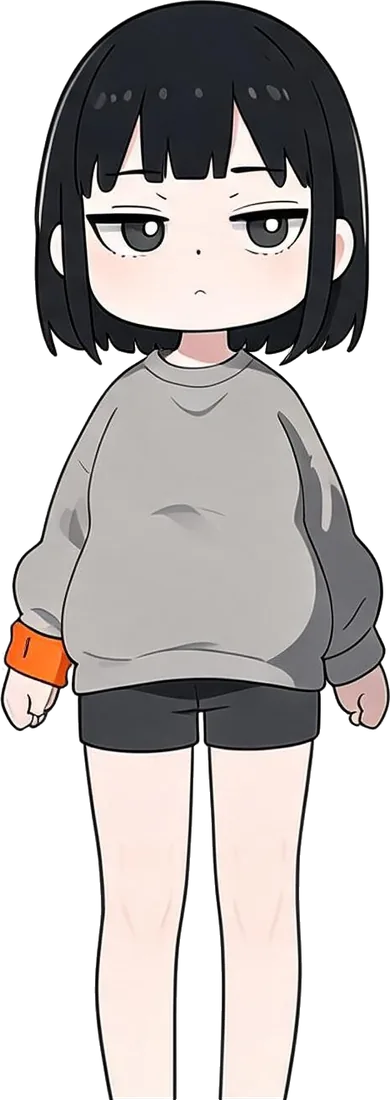
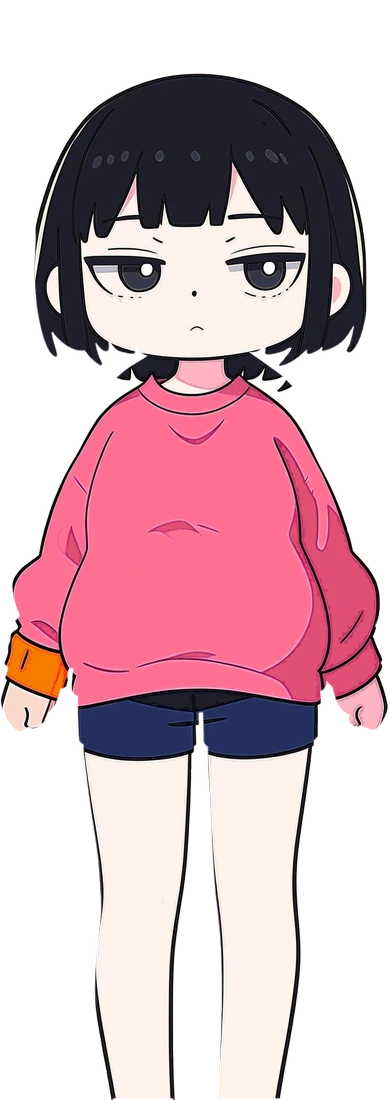
누나 정면·옆 그림(sister-front, sister-side)을 아동 컬러판(핑크 맨투맨·남색 반바지)으로 다시 칠함

diff --git a/_tests/test_recolor_sister.py b/_tests/test_recolor_sister.py
@@ -1,0 +1,140 @@
+"""Item: recolour sister-front / sister-side to the kids colour palette.
+
+Done when
+- both images keep the size and mode of the bb74c20 original,
+- they are more colourful than the original and at least 8% colourful
+  (pink sweatshirt #FF6F91, navy shorts #34407A per PALETTE.md),
+- work PNGs / candidates live only outside the repo (TEMP), never in it.
+Run: python _tests/test_recolor_sister.py
+"""
+import colorsys
+import os
+import subprocess
+import sys
+import unittest
+
+sys.dont_write_bytecode = True
+sys.path.insert(0, os.path.dirname(os.path.abspath(__file__)))
+import imgcheck  # noqa: E402
+
+NAMES = ["sister-front", "sister-side"]
+DEST = "assets/images/twins"
+MIN_COLOUR = 0.08
+MIN_GAIN = 0.03
+MIN_SHARE = 0.01  # each garment colour must cover >= 1% of opaque pixels
+
+
+def rel(n):
+    return f"{DEST}/{n}.webp"
+
+
+def hue_share(img, lo, hi, sat_min=0.35, val_max=1.0, max_side=256):
+    """Share of opaque pixels whose hue is in [lo, hi] (wraps if lo > hi)."""
+    img = img.convert("RGBA")
+    if max(img.size) > max_side:
+        img = img.copy()
+        img.thumbnail((max_side, max_side), imgcheck.Image.NEAREST)
+    total = hits = 0
+    for r, g, b, a in img.getdata():
+        if a < 128:
+            continue
+        total += 1
+        h, s, v = colorsys.rgb_to_hsv(r / 255, g / 255, b / 255)
+        h *= 360
+        inside = (lo <= h <= hi) if lo <= hi else (h >= lo or h <= hi)
+        if inside and s >= sat_min and v <= val_max:
+            hits += 1
+    return hits / total if total else 0.0
+
+
+def pink_share(img):
+    return hue_share(img, 325, 10, sat_min=0.30)
+
+
+def navy_share(img):
+    return hue_share(img, 215, 250, sat_min=0.30, val_max=0.65)
+
+
+class TestRecolorSister(unittest.TestCase):
+    def test_files_exist(self):
+        missing = [n for n in NAMES if not os.path.isfile(imgcheck.repo_path(rel(n)))]
+        self.assertEqual(missing, [])
+
+    def test_changed_from_base(self):
+        same = [n for n in NAMES
+                if imgcheck.original_bytes(rel(n))
+                == open(imgcheck.repo_path(rel(n)), "rb").read()]
+        self.assertEqual(same, [], "still the bb74c20 (mono) file")
+
+    def test_size_and_mode_match_base(self):
+        bad = []
+        for n in NAMES:
+            ok, msg = imgcheck.same_size_mode(rel(n))
+            if not ok:
+                bad.append(msg)
+        self.assertEqual(bad, [])
+
+    def test_more_colourful_than_base_and_at_least_8pct(self):
+        bad = []
+        for n in NAMES:
+            old = imgcheck.colourfulness(imgcheck.original(rel(n)))
+            new = imgcheck.colourfulness(imgcheck.current(rel(n)))
+            if new < MIN_COLOUR or new < old + MIN_GAIN:
+                bad.append(f"{n}: {old:.3f} -> {new:.3f}")
+        self.assertEqual(bad, [], f"need >= {MIN_COLOUR} and > base + {MIN_GAIN}")
+
+    def test_pink_sweatshirt_present(self):
+        low = [f"{n}: {pink_share(imgcheck.current(rel(n))):.3f}" for n in NAMES
+               if pink_share(imgcheck.current(rel(n))) < MIN_SHARE]
+        self.assertEqual(low, [], "pink sweatshirt colour missing")
+
+    def test_navy_shorts_present(self):
+        low = [f"{n}: {navy_share(imgcheck.current(rel(n))):.3f}" for n in NAMES
+               if navy_share(imgcheck.current(rel(n))) < MIN_SHARE]
+        self.assertEqual(low, [], "navy shorts colour missing")
+
+    def test_transparent_background_kept(self):
+        # Cutouts: corners must stay transparent (no cream box left by recolour).
+        bad = []
+        for n in NAMES:
+            img = imgcheck.current(rel(n)).convert("RGBA")
+            w, h = img.size
+            for xy in [(0, 0), (w - 1, 0)]:
+                if img.getpixel(xy)[3] > 16:
+                    bad.append(f"{n} {xy}")
+        self.assertEqual(bad, [], "background not transparent at top corners")
+
+    def test_no_work_files_in_repo(self):
+        out = subprocess.run(
+            ["git", "status", "--porcelain", "--untracked-files=all", "--ignored"],
+            cwd=imgcheck.REPO, capture_output=True, text=True, check=True).stdout
+        stray = [line for line in out.splitlines()
+                 if "sister" in line.lower()
+                 and line.lower().rstrip('"').endswith((".png", ".webp", ".jpg", ".jpeg"))
+                 and not line[3:].strip().strip('"') in [rel(n) for n in NAMES]]
+        self.assertEqual(stray, [], "work PNG / candidate left inside the repo")
+
+
+class TestHelpers(unittest.TestCase):
+    def test_hue_share_bounds(self):
+        Image = imgcheck.Image
+        pink = Image.new("RGBA", (4, 4), (0xFF, 0x6F, 0x91, 255))
+        navy = Image.new("RGBA", (4, 4), (0x34, 0x40, 0x7A, 255))
+        sky = Image.new("RGBA", (4, 4), (0x3F, 0xA9, 0xF5, 255))
+        grey = Image.new("RGBA", (4, 4), (90, 90, 90, 255))
+        self.assertEqual(pink_share(pink), 1.0)
+        self.assertEqual(pink_share(navy), 0.0)
+        self.assertEqual(navy_share(navy), 1.0)
+        self.assertEqual(navy_share(sky), 0.0)  # too bright for navy
+        self.assertEqual(navy_share(grey), 0.0)
+        self.assertEqual(pink_share(Image.new("RGBA", (4, 4), (255, 111, 145, 0))), 0.0)
+
+    def test_base_is_not_pink_navy(self):
+        # The mono originals must fail the garment checks, else they prove nothing.
+        for n in NAMES:
+            old = imgcheck.original(rel(n))
+            self.assertLess(min(pink_share(old), navy_share(old)), MIN_SHARE, n)
+
+
+if __name__ == "__main__":
+    unittest.main(verbosity=1)
